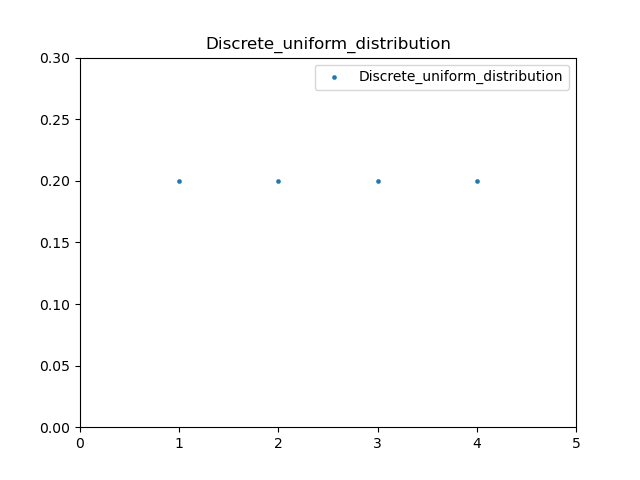
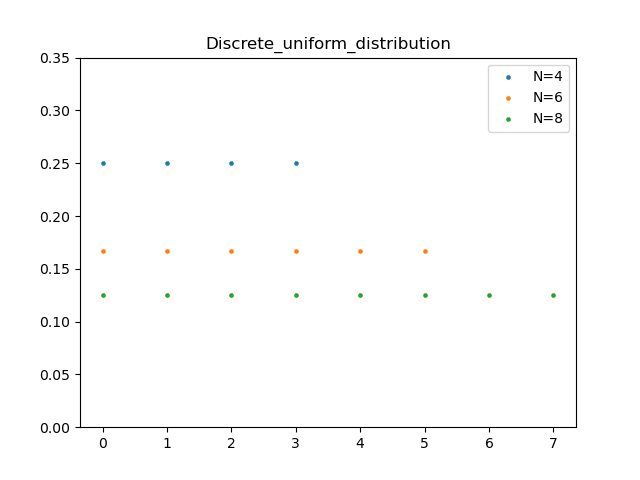
new

diff --git a/probDistribution.py b/probDistribution.py
@@ -29,13 +29,21 @@ def scatterSub(x,y,ax=None,label='',marker='.'):
 imgSavePath=r'.\images\\'
 
 def testDiscrete_uniform_distribution(i=0):
-    N = 5
-    x = np.arange(1,N)
+    N = 4
+    x = np.arange(0,N)
     ax = plt.subplot(1,1,1)
     plt.title('Discrete_uniform_distribution')
-    scatterSub(x, Discrete_uniform_distribution(x,N=N), ax,label='Discrete_uniform_distribution')
-    plt.xlim(0, 5)
-    plt.ylim(0, 0.3)
+    scatterSub(x, Discrete_uniform_distribution(x,N=N), ax,label='N=4')
+    
+    N = 6
+    x = np.arange(0,N)
+    scatterSub(x, Discrete_uniform_distribution(x,N=N), ax,label='N=6')
+    N = 8
+    x = np.arange(0,N)
+    scatterSub(x, Discrete_uniform_distribution(x,N=N), ax,label='N=8')
+    
+    #plt.xlim(0, 6)
+    plt.ylim(0, 0.35)
     plt.savefig(imgSavePath+'dsitribution{}.png'.format(i)), plt.show() 
     
 def testBinomial_distribution(i):
@@ -227,9 +235,15 @@ def testUniform_distribution(i):
     x = np.linspace(1.0, 3.0, 50)
     ax = plt.subplot(1,1,1)
     plt.title('Uniform_distribution')
-    plotSub(x, Uniform_distribution(x), ax,label='Uniform_distribution')
-    plt.xlim(0, 4)
-    plt.ylim(0.35, 0.6)
+    plotSub(x, Uniform_distribution(x), ax,label='a=1,b=3')
+    
+    x = np.linspace(2.0, 3.0, 50)
+    plotSub(x, Uniform_distribution(x,a=2,b=3), ax,label='a=2,b=3')
+    
+    x = np.linspace(1.0, 4.0, 50)
+    plotSub(x, Uniform_distribution(x,a=1,b=4), ax,label='a=1,b=4')
+    #plt.xlim(0, 4)
+    plt.ylim(0, 1.2)
     plt.savefig(imgSavePath+'dsitribution{}.png'.format(i)), plt.show() 
     
 def testNormalDistribution(i):
@@ -352,11 +366,12 @@ def testBeta_distribution(i):
     plt.savefig(imgSavePath+'dsitribution{}.png'.format(i)),plt.show()
     
 def testGeneralized_logistic_distribution(i):
-    x = np.linspace(-5.0, 5.0, 100)  
+    x = np.linspace(-25.0, 8.0, 200)  
     ax = plt.subplot(1,1,1)
     plt.title('Generalized_logistic_distribution')
     plotSub(x, Generalized_logistic_distribution(x), ax,label='alpha=1.0')
     plotSub(x, Generalized_logistic_distribution(x,alpha=0.5), ax,label='alpha=0.5')
+    plotSub(x, Generalized_logistic_distribution(x,alpha=0.2), ax,label='alpha=0.2')
     plt.savefig(imgSavePath+'dsitribution{}.png'.format(i)),plt.show()
 
 def testGumbel_distribution(i):
@@ -521,8 +536,9 @@ def testReciprocal_distribution(i):
 def testTriangular_distribution(i):
     ax = plt.subplot(1,1,1)
     plt.title('Triangular_distribution')
-    x = np.linspace(0, 5, 100)
+    x = np.linspace(0, 7, 200)
     plotSub(x, Triangular_distribution(x), ax,label='a=1,c=3,b=4')
+    plotSub(x, Triangular_distribution(x,a=1,c=3,b=6), ax,label='a=1,c=3,b=6')
     plt.savefig(imgSavePath+'dsitribution{}.png'.format(i)),plt.show()
     
 def testTrapezoidal_distribution(i):
@@ -805,7 +821,7 @@ def plotAllDistributions():
 
 def main():
     #plotAllDistributions()
-    testSkew_normal_distribution(50)
+    testTriangular_distribution(35)
     pass
 
 if __name__ == '__main__':

diff --git a/plotFunction.py b/plotFunction.py
@@ -4,6 +4,7 @@
 
 import numpy as np 
 import matplotlib.pyplot as plt
+from matplotlib import cm
 from activationFunc import *
 import math
 from scipy.special import gamma,factorial,beta
@@ -96,8 +97,8 @@ def plotSub(x,y,ax=None, aspect=False, label=''):
         ax.set_aspect(1)
     ax.legend()
     
-def scatterSub(x,y,ax=None,label='',marker=','):
-    ax.scatter(x,y,linewidths=.3,color='r',label=label,marker=marker)
+def scatterSub(x,y,ax=None,label='',marker=',',c='r'):
+    ax.scatter(x,y,linewidths=.3,c=c,label=label,marker=marker)
     #ax.set_aspect(1)
 
 def scatter(x,y,ratio=True):
@@ -383,18 +384,49 @@ def plot_gamma():
     plt.legend(loc='lower right')
     plt.show()
 
+def yieldBetaFuc(start,stop,N):  
+    xvalues = np.linspace(start,stop,N)
+    yvalues = np.linspace(start,stop,N)
+    for u, x in enumerate(xvalues):
+        for v, y in enumerate(yvalues):
+            #print('x,y=',x,y,beta(x,y))
+            yield u,v,beta(x,y)
+
+def getBetaFucImg(start,stop,N):
+    M = np.zeros([N, N,3], int) # + 255
+    for v,u,z in yieldBetaFuc(start,stop,N): #map z(0~2) to 0~255 pixsel value
+        value =  int(z*256/.2)
+        #print('z=',v,u,z,value)
+        #M[v, u, :] = value
+        #M[v, u, 0] = value #r channel     
+        M[v, u, 1] = value #g channel
+        #M[v, u, 2] = value #b channel             
+    return M
+
+def plotBetaFuc2():
+    start=1
+    stop =3
+    N=1000
+    x = np.linspace(start,stop, N)  
+    plt.imshow(getBetaFucImg(start,stop,N),cmap='gray')
+    plt.show()
+    
 def plot_beta():
     ax = plt.subplot(1,1,1)
-    x = np.linspace(-3.5,5, 1000)   
+    x = np.linspace(-3,3, 100)  
+    print(x.shape)
+    x,y = np.meshgrid(x,x)
+    v = beta(x,y).flatten()
+    print(v.shape)
+    print(x.shape)
+    print(y.shape)
+    #return
     ax.set_title('beta Function')
-    plotSub(x, gamma(x), ax,label='beta(x)')
+    #plotSub(x, y, ax,label='beta(x)')
+    #scatterSub(x,beta(x,y),ax, label='beta', marker='.')
+    scatterSub(x,y,ax, c=v)
     
-    k = np.arange(1, 7)
-    scatterSub(k, factorial(k-1),ax, label='(x-1)!, x = 1, 2, ...', marker='*')
-    
-    plt.xlim(-3.5, 5.5)
-    plt.ylim(-10, 25)
-    plt.grid()
+    #plt.grid()
     plt.xlabel('x')
     plt.legend(loc='lower right')
     plt.show()
@@ -453,7 +485,9 @@ def main():
     #plotActivationOneFun()
     #plotEquationSlove()
     #plotLogEntropy()
-    plot_gamma()
+    #plot_gamma()
+    #plot_beta()
+    #plotBetaFuc2()
     pass
 
 if __name__ == '__main__':
